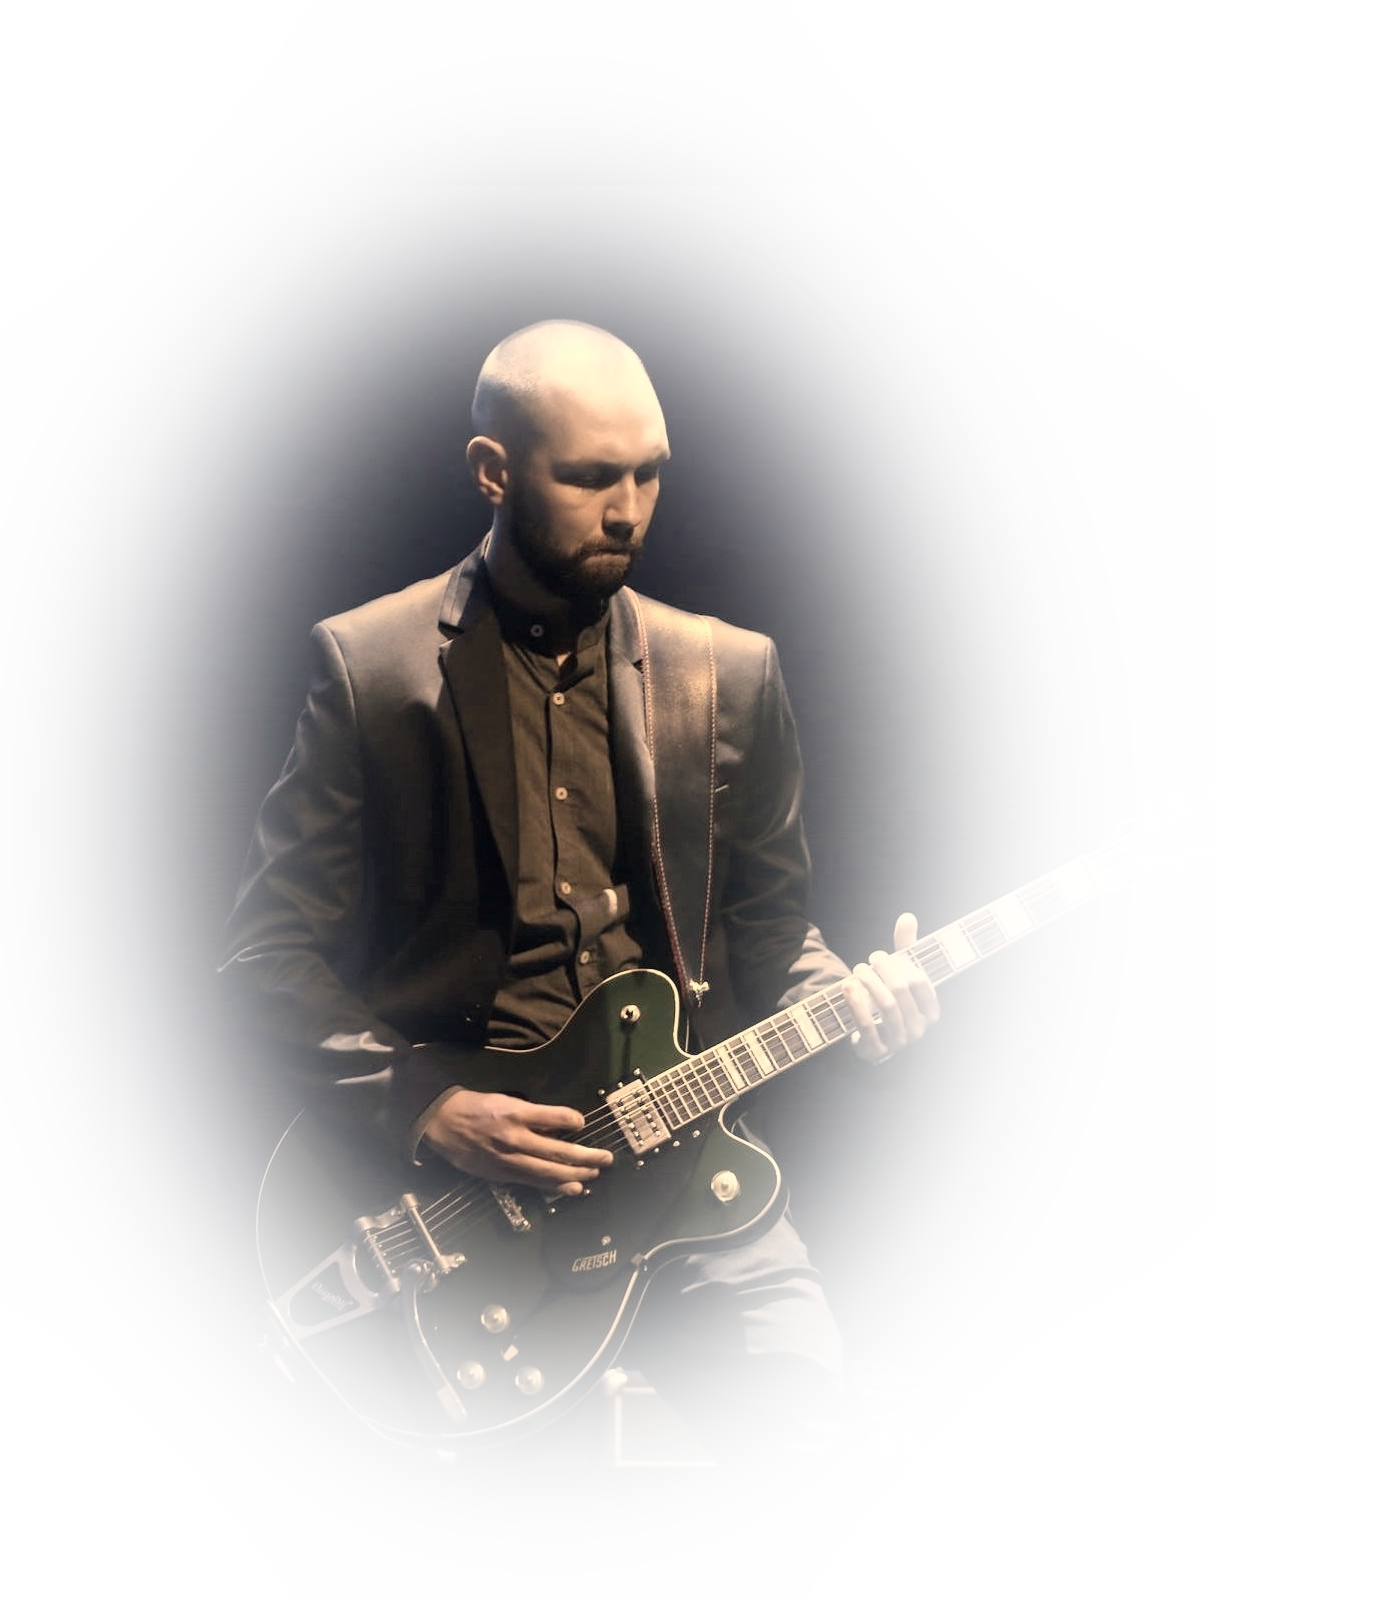
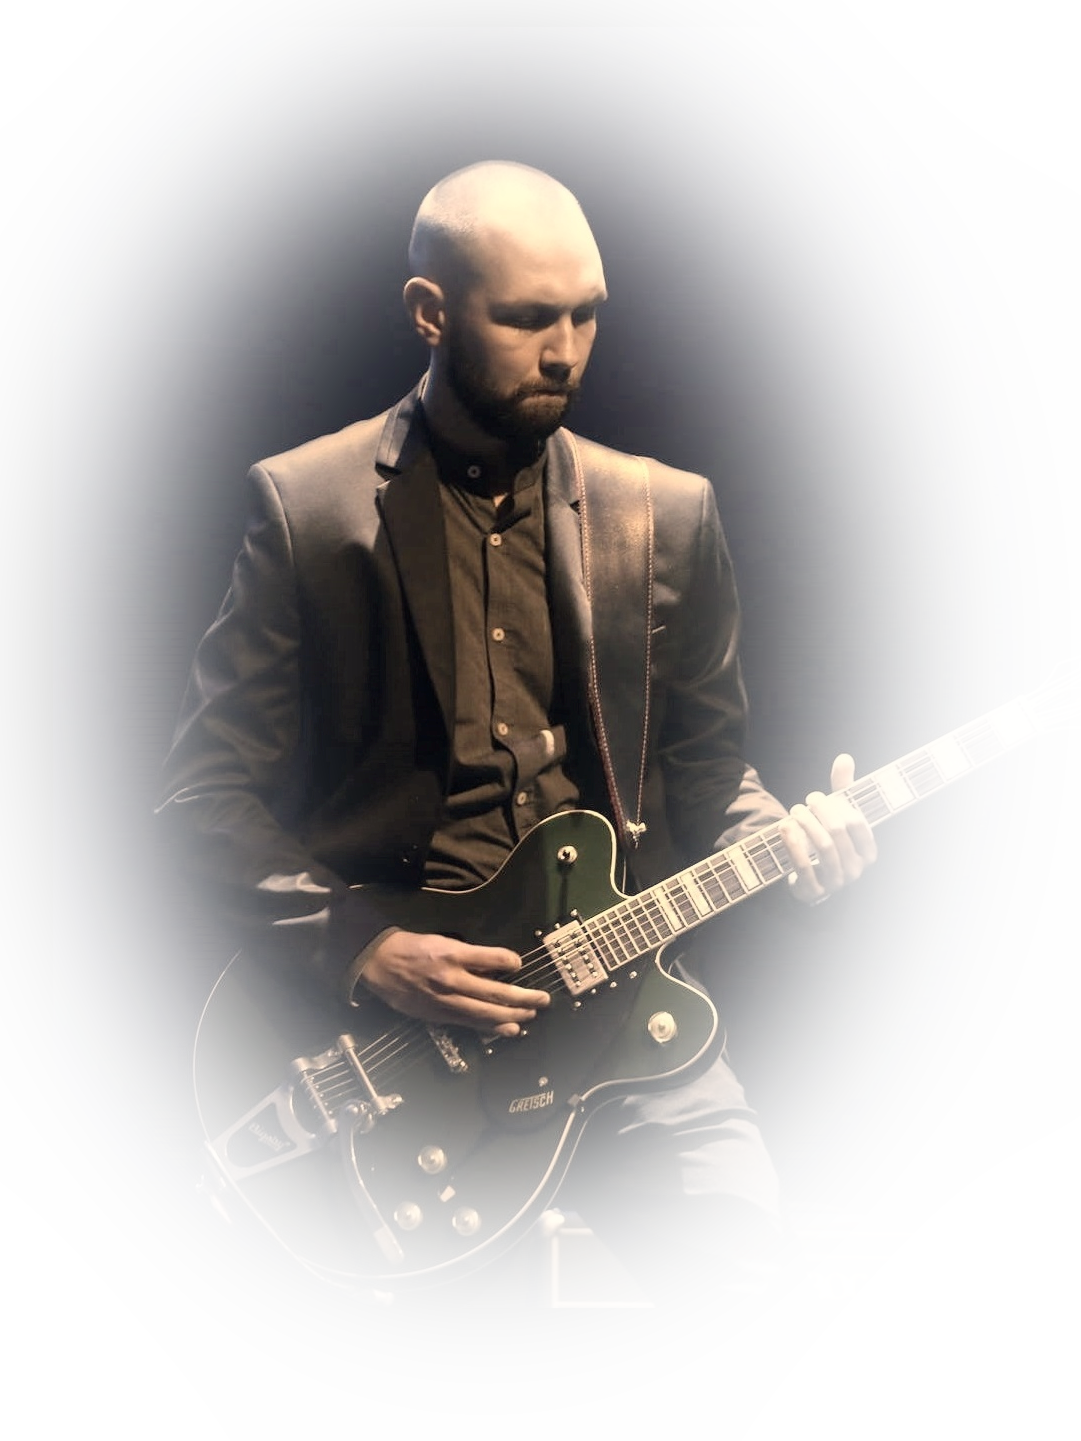
feat: mobile version - about section

diff --git a/components/layouts/About.tsx b/components/layouts/About.tsx
@@ -1,12 +1,17 @@
+import Image from "next/image"
+import profile from "../../public/profile.png";
 import Paragraph from "../shared/Paragraph"
 
 const About = () => {
   return (
-    <section className="grid grid-cols-2 min-h-screen bg-local bg-fit-h bg-no-repeat bg-left bg-profile" id="about">
-      <div className="col-start-2 w-[40rem] m-auto">
-        <h2 className="text-4xl">ŁUKASZ ŚLIWIŃSKI</h2>
-        <Paragraph text={'Lorem ipsum dolor sit amet, consectetur adipiscing elit, sed do eiusmod tempor incididunt ut labore et dolore magna aliqua. Ut enim ad minim veniam, quis nostrud exercitation ullamco laboris nisi ut aliquip ex ea commodo consequat. Lorem ipsum dolor sit amet, consectetur adipiscing elit, sed do eiusmod tempor incididunt ut labore et dolore magna aliqua. Ut enim ad minim veniam, quis nostrud exercitation ullamco laboris nisi ut aliquip ex ea commodo consequat.'}/>
+    <section className="grid lg:grid-cols-2 min-h-screen">
+      <div className="flex justify-center items-center">
+        <Image className="m-auto w-5/6" src={profile} alt="profile photo" width="400" height="400" />
       </div>
+      <Paragraph
+        header={'ŁUKASZ ŚLIWIŃSKI'}
+        text={'Lorem ipsum dolor sit amet, consectetur adipiscing elit, sed do eiusmod tempor incididunt ut labore et dolore magna aliqua. Ut enim ad minim veniam, quis nostrud exercitation ullamco laboris nisi ut aliquip ex ea commodo consequat. Lorem ipsum dolor sit amet, consectetur adipiscing elit, sed do eiusmod tempor incididunt ut labore et dolore magna aliqua. Ut enim ad minim veniam, quis nostrud exercitation ullamco laboris nisi ut aliquip ex ea commodo consequat.'}
+      />
     </section>
   )
 }

diff --git a/app/page.tsx b/app/page.tsx
@@ -1,15 +1,27 @@
 "use client";
+import { useState, useEffect } from "react";
+import useWindowDimensions from "../components/hooks/useWindowDimensions";
 import Home from "@/components/layouts/Home";
 import About from "@/components/layouts/About";
 import Music from "@/components/layouts/Music";
 import Links from "@/components/layouts/Links";
 
 export default function Page() {
+  const { screenHeight, screenWidth } = useWindowDimensions();
+
+  const [verticalScreen, setVerticalScreen] = useState(false);
+  const [isMobile, setIsMobile] = useState(screenWidth < 1024);
+
+  useEffect(() => {
+    setVerticalScreen(screenHeight > screenWidth);
+    setIsMobile(screenWidth < 1024)
+  }, [screenHeight, screenWidth]);
+
   return (
     <>
-      <Home />
-      {/* <About /> */}
-      {/* <Music /> */}
+      <Home verticalScreen={verticalScreen} isMobile={isMobile} />
+      <About />
+      <Music />
       {/* <Links /> */}
     </>
   );

diff --git a/components/layouts/Home.tsx b/components/layouts/Home.tsx
@@ -1,20 +1,13 @@
-import { useState, useEffect } from "react";
-import useWindowDimensions from "../hooks/useWindowDimensions";
 import Image from "next/image";
 import logo from "../../public/logo.svg";
 import Button from "../shared/Button";
 
-const Home = () => {
-  const { screenHeight, screenWidth } = useWindowDimensions();
+interface Props {
+  verticalScreen: boolean,
+  isMobile: boolean
+}
 
-  const [verticalScreen, setVerticalScreen] = useState(false);
-  const [isMobile, setIsMobile] = useState(screenWidth < 950);
-
-  useEffect(() => {
-    setVerticalScreen(screenHeight > screenWidth);
-    setIsMobile(screenWidth < 950)
-  }, [screenHeight, screenWidth]);
-
+const Home = ({ verticalScreen, isMobile }: Props) => {
   return (
     <section className="relative bg-cover bg-center bg-no-repeat bg-landing" id="home">
       

diff --git a/components/shared/Paragraph.tsx b/components/shared/Paragraph.tsx
@@ -1,6 +1,9 @@
-const Paragraph = ({ text }: { text: string }) => {
+const Paragraph = ({ header, text }: { header: string, text: string }) => {
   return (
-    <p className="text-lg mt-6 text-justify">{text}</p>
+    <div className="m-auto w-4/5 max-w-[40rem]">
+      <h2 className="text-xl xs:text-3xl xl:text-4xl">{header}</h2>
+      <p className="text-sm xs:text-base xl:text-lg mt-6 text-justify">{text}</p>
+    </div>
   )
 }
 

diff --git a/tailwind.config.ts b/tailwind.config.ts
@@ -16,7 +16,6 @@ const config: Config = {
     extend: {
       backgroundImage: {
         "landing": "url('../public/landing.png')",
-        "profile": "url('../public/profile.png')",
         "mountains": "url('../public/mountains.jpg')",
         "pick": "url('../public/pick.svg')"
       },
